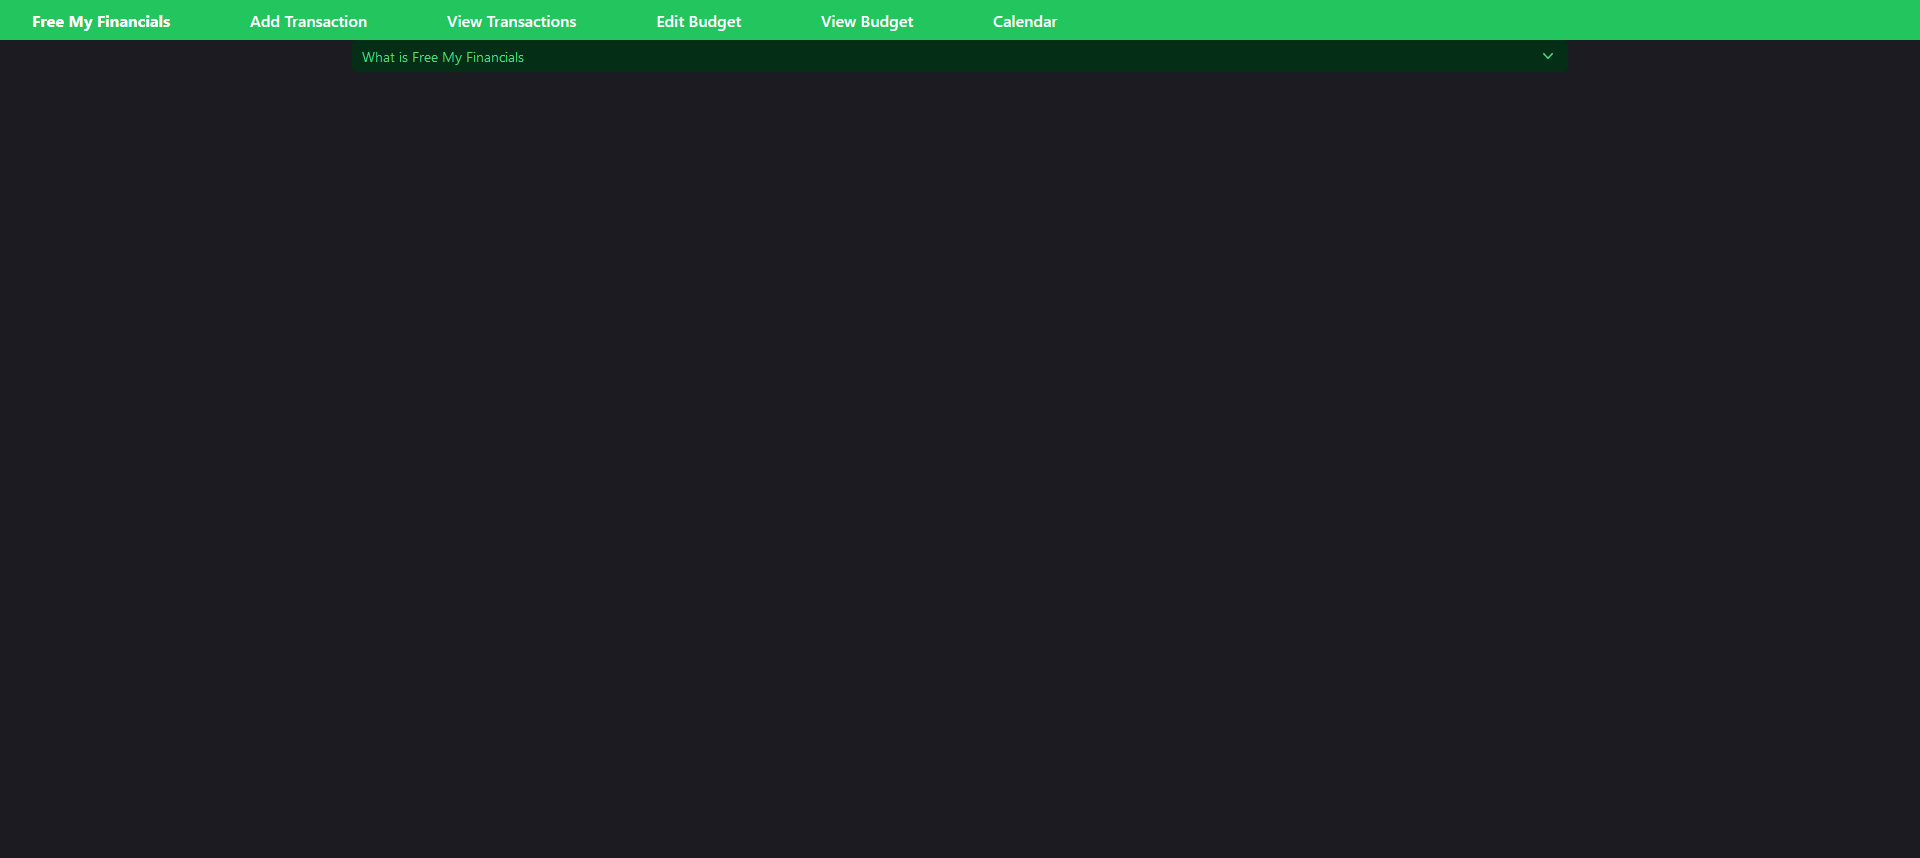
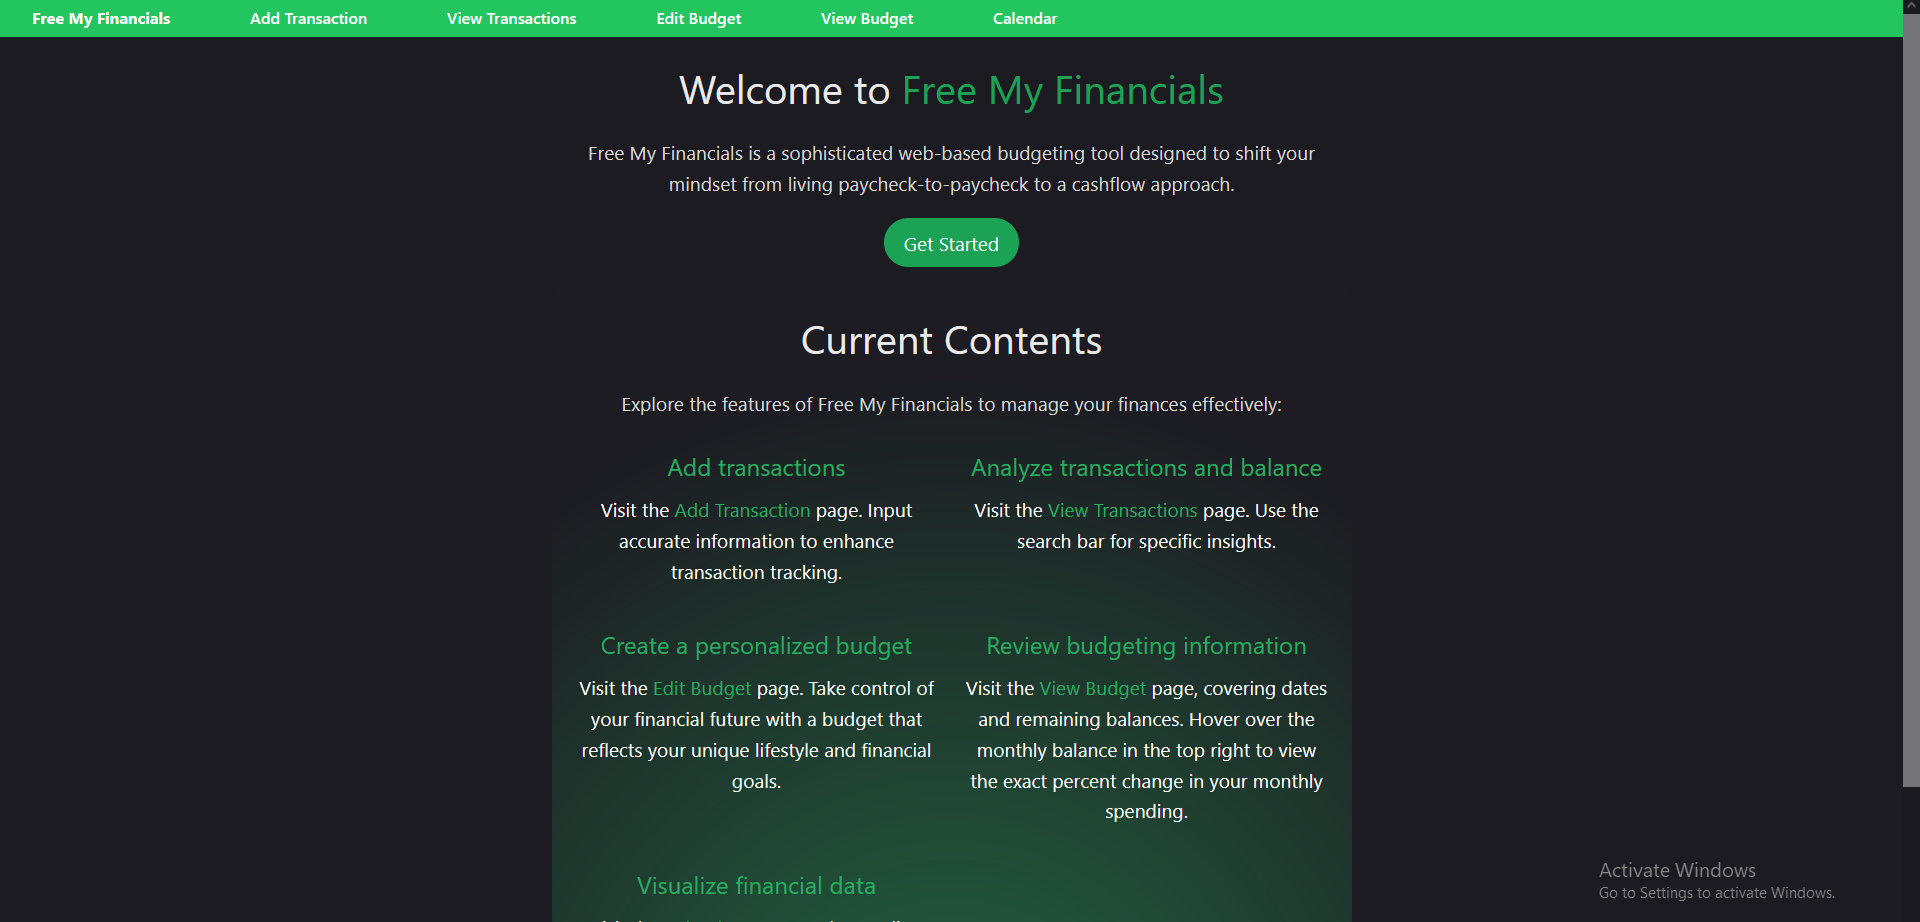
Update User.md

diff --git a/Documentation/User.md b/Documentation/User.md
@@ -2,8 +2,7 @@
 
 - Click on the link the the webpage. You will be welcomed to this page:
 ![WelcomePage](welcomepage.PNG)
-- To learn more about Free My Financials, you can click on  the "What is Free my Financials" text
-![WelcomePageWithDropDown](welcomepagedropdown.PNG)
+- From here you can read about the various features, and click on the links in the description to go to that page. The get started button takes you to the edit budget page.
 - To navigate to pages, click on any of the messages on the top green bar. Free My Financials takes you to the home page. Add Transaction takes you to the add page. View Transactions takes you to the budgeting page. Edit budget takes you to a page to edit budget amount and dates. View budget lets you view that budget. Calender places transactions on various dates.
 ![ClickNav](hoverovertransaction.PNG)
 - To use Free My Financials, you need to add transactions, including paychecks, to record your budget! A budget is simply the amount of money you have. The Add Page allows you to select from a drop down if the transaction is a expense or an income. You can then type out all the other requested information and hit submit to record the transaction. Here is an example paycheck
